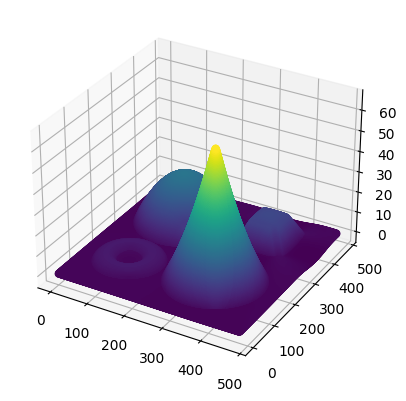
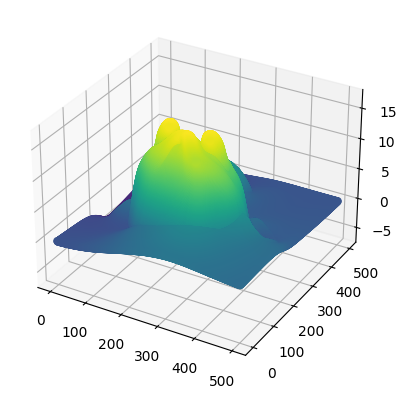
update readme files

diff --git a/README.md b/README.md
@@ -5,17 +5,6 @@
 </a>
 
 <!-- START doctoc generated TOC please keep comment here to allow auto update -->
-<!-- DON'T EDIT THIS SECTION, INSTEAD RE-RUN doctoc TO UPDATE -->
-**Table of Contents**
-
-- [Introduction](#introduction)
-- [Imports & Inputs](#imports--inputs)
-- [Explanation](#explanation)
-  - [Gradients](#gradients)
-  - [Heights](#heights)
-  - [Rotation](#rotation)
-- [Example Usage](#example-usage)
-
 <!-- END doctoc generated TOC please keep comment here to allow auto update -->
 
 # Introduction
@@ -105,7 +94,7 @@ _ = axes[2].imshow(np.clip(normals, 0, 255))
 
 ## Heights
 
-The height values $h(x,y) \in \mathbb{R}^{2}, \ \ x,y \in \mathbb{N}^{0}$ can be calculated by a anisotropic cumulative sum over the gradients which converges to an integral over $g(x,y)$:
+The height values $h(x,y) \in \mathbb{R}^{2}, \ \ x,y \in \mathbb{N}^{0}$ can be calculated by a cumulative sum over the gradients which converges to an integral over $g(x,y)$:
 
 $$
 h(x_t,y_t) = \iint g(x,y) dydx \ \ (x_t,y_t) \approx \sum_{x_i=0}^{x_t} g(x_i,y_t)
@@ -117,10 +106,10 @@ The isotropic (non-directional) heights are determined with a combination of all
 
 ```python
 def integrate_gradient_field(gradient_field, axis):
-    integral = np.zeros(gradient_field.shape[:2])
-
     return np.cumsum(gradient_field, axis=axis)
     # return cumulative_trapezoid(gradient_field, axis=axis)
+    integral = np.zeros(gradient_field.shape[:2])
+
     if axis == 1:
         for y in range(gradient_field.shape[0]):
             for x in range(1, gradient_field.shape[1]):
@@ -396,7 +385,7 @@ for index in range(4):
 
 
 ```python
-heights = estimate_height_map(NORMAL_MAP_A_IMAGE)
+heights = estimate_height_map(NORMAL_MAP_B_IMAGE)
 
 _ = plt.imshow(heights)
 x, y = np.meshgrid(range(heights.shape[1]), range(heights.shape[0]))
@@ -415,3 +404,73 @@ _ = axes.scatter(x, y, heights, c=heights)
 ![png](README_files/README_18_1.png)
     
 
+
+# Discussion
+
+## Integration
+
+Cumulative sum is a a very primitive way of calculating an integral. In the following the trapezoid and the Simpson method are implemented additionally.
+
+
+```python
+from enum import auto, Enum
+
+
+class INTEGRATION_METHODS(Enum):
+    SUM = auto()
+    TRAPEZOID = auto()
+    SIMSPSON = auto()
+
+
+def integrate_gradient_field(gradient_field, axis):
+    if INTEGRATION_METHOD == INTEGRATION_METHOD.SUM:
+        return np.cumsum(gradient_field, axis=axis)
+
+    if INTEGRATION_METHOD == INTEGRATION_METHOD.TRAPEZOID:
+        return cumulative_trapezoid(gradient_field, axis=axis, initial=0)
+
+    if INTEGRATION_METHOD == INTEGRATION_METHOD.SIMSPSON:
+        integral = np.zeros(gradient_field.shape[:2])
+
+        if axis == 1:
+            for y in range(gradient_field.shape[0]):
+                for x in range(1, gradient_field.shape[1]):
+                    integral[y, x] = simpson(gradient_field[y, :x])
+
+        elif axis == 0:
+            for x in range(gradient_field.shape[1]):
+                for y in range(1, gradient_field.shape[0]):
+                    integral[y, x] = simpson(gradient_field[:y, x])
+
+        return integral
+
+
+figure, axes = plt.subplots(1, 3, figsize=(14, 6))
+
+target_iteration_count = 1
+
+INTEGRATION_METHOD = INTEGRATION_METHODS.SUM
+sum_heights = estimate_height_map(NORMAL_MAP_B_IMAGE, target_iteration_count)
+axes[0].set_title(f"sum")
+_ = axes[0].imshow(sum_heights)
+
+INTEGRATION_METHOD = INTEGRATION_METHODS.TRAPEZOID
+trapezoid_heights = estimate_height_map(NORMAL_MAP_B_IMAGE, target_iteration_count)
+axes[1].set_title(f"trapezoid")
+_ = axes[1].imshow(trapezoid_heights)
+
+INTEGRATION_METHOD = INTEGRATION_METHODS.SIMSPSON
+simpson_heights = estimate_height_map(NORMAL_MAP_B_IMAGE, target_iteration_count)
+axes[2].set_title(f"simpson")
+_ = axes[2].imshow(simpson_heights)
+```
+
+
+    
+![png](README_files/README_20_0.png)
+    
+
+
+They all look quite the same and in fact, they are pretty much equal. However, the Simpson approach takes a very long computational time in this implementation, compared to sum and trapezoid.
+
+This is quite demotivating in regard of using polynomial approximation in general to improve the resulting heights.
